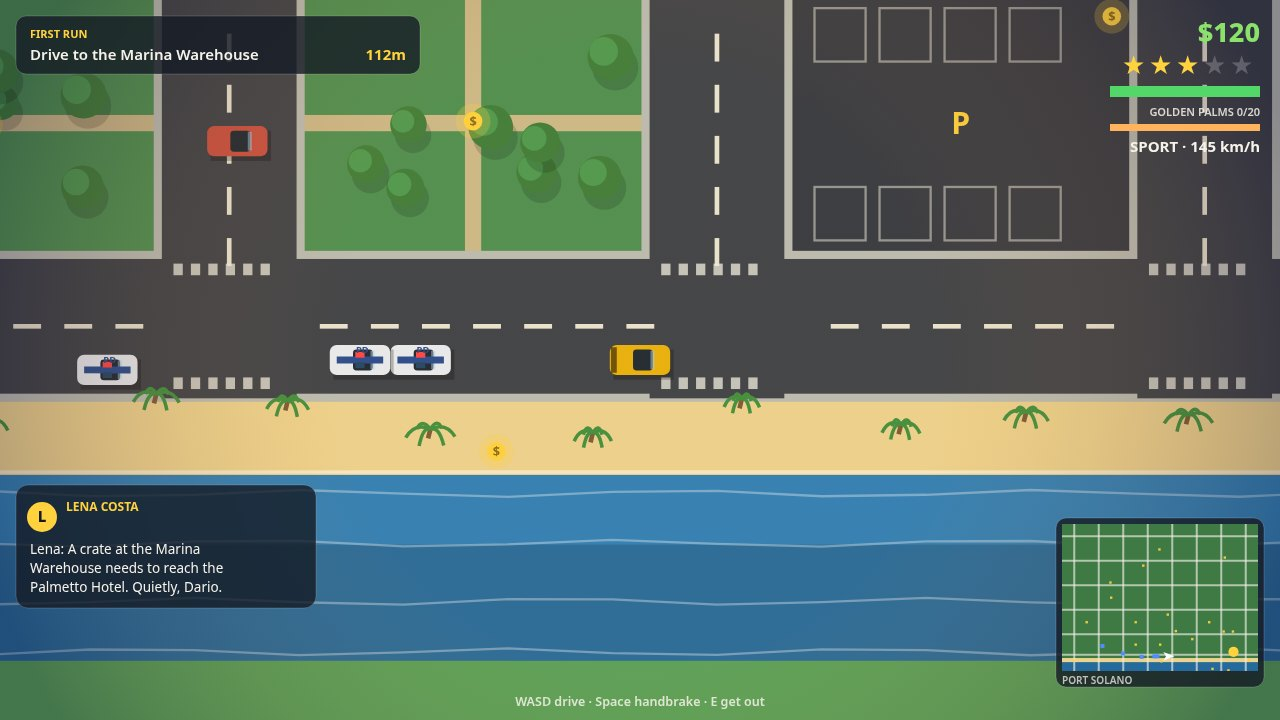
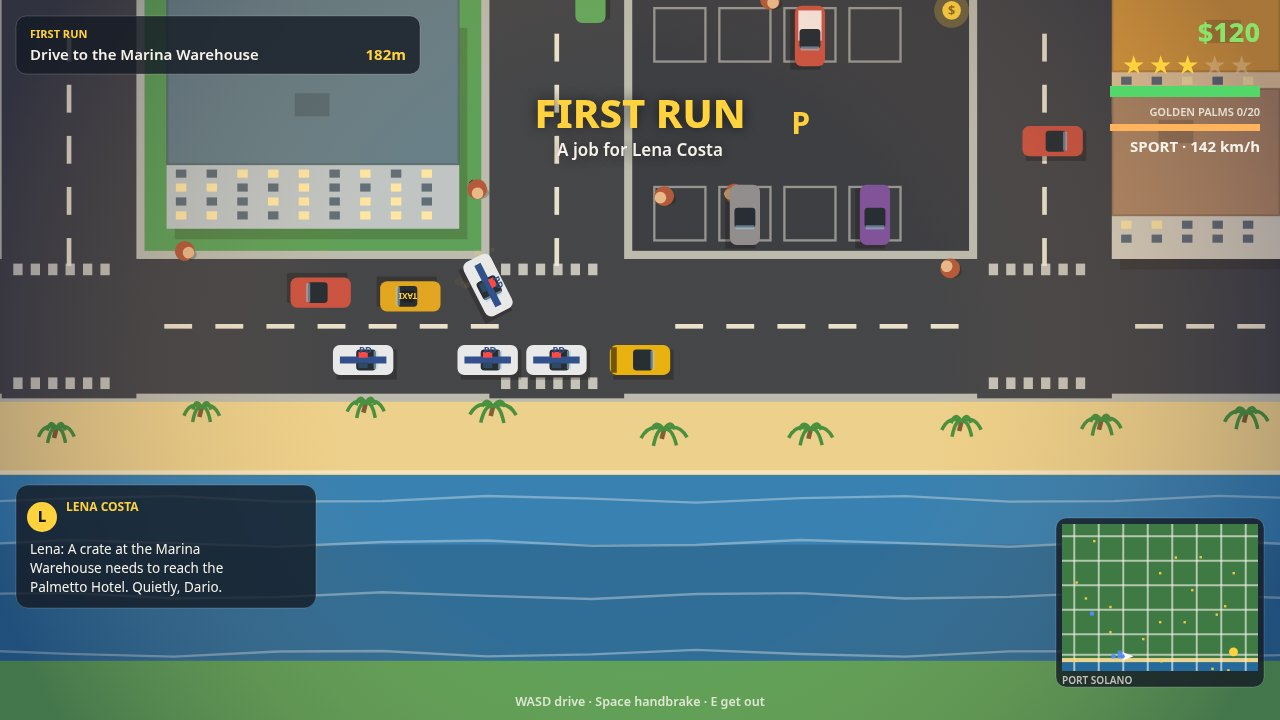
Screenshots: four fresh frames, the roadblock finale in the fourth slot
All four scenes re-rendered in-session from the real rules at 1280x720:
the cover is a three-cruiser chase down Ocean Drive at speed (retimed so
the pursuit reads as a chase, not a pile-up), the foot shot crosses
downtown past Cafe Azul, the marina shot is Dockside Noise mid-fight with
two smugglers left, and the title screen is retired for the Solano Score's
second beat — five stars, ROADBLOCK ACTIVE, the PSPD line across the
avenue, pursuit behind, the boat objective on the minimap.

diff --git a/game/src/shots.js b/game/src/shots.js
@@ -65,14 +65,14 @@ export function stageShot(name, state) {
     car.playerDriven = true;
     p.x = car.x;
     p.y = car.y;
-    for (const [back, speed] of [[95, 330], [185, 310], [285, 296]]) {
+    for (const [back, speed] of [[120, 322], [215, 308], [320, 292]]) {
       const cop = makeCar('police', 330 - back, 2269, 0, '#e8ecf2', 'police');
       cop.speed = speed;
       state.cars.push(cop);
     }
     state.wanted.heat = 3;
     state.aim = { x: p.x + 500, y: p.y };
-    run(state, drivingInput(), 3.9);
+    run(state, drivingInput(), 2.4);
     state.aim = { x: p.x + 500, y: p.y - 10 };
     return { screen: SCREEN_PLAY };
   }
